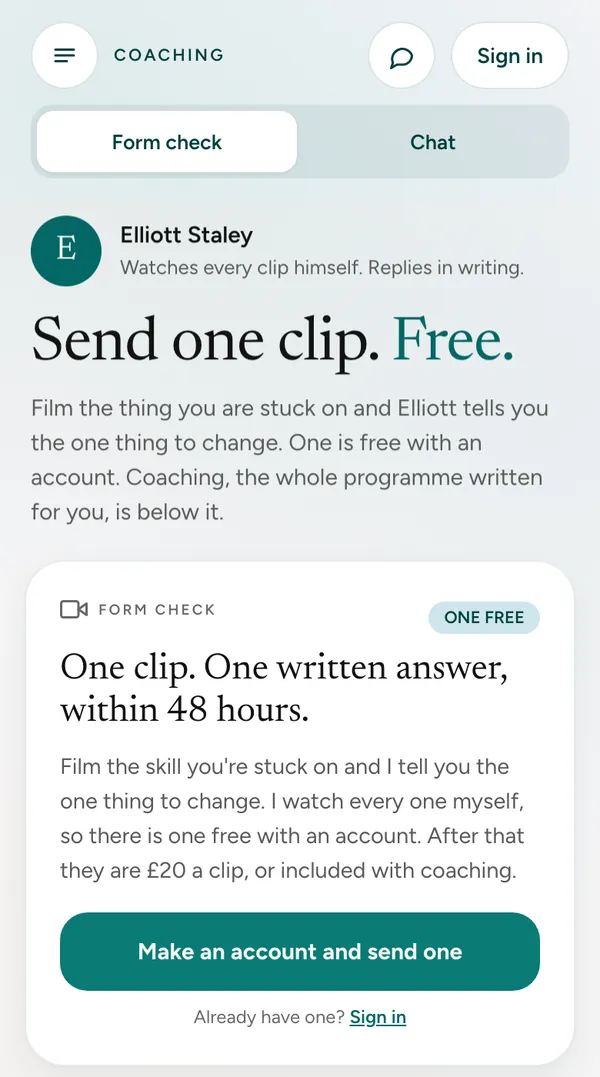
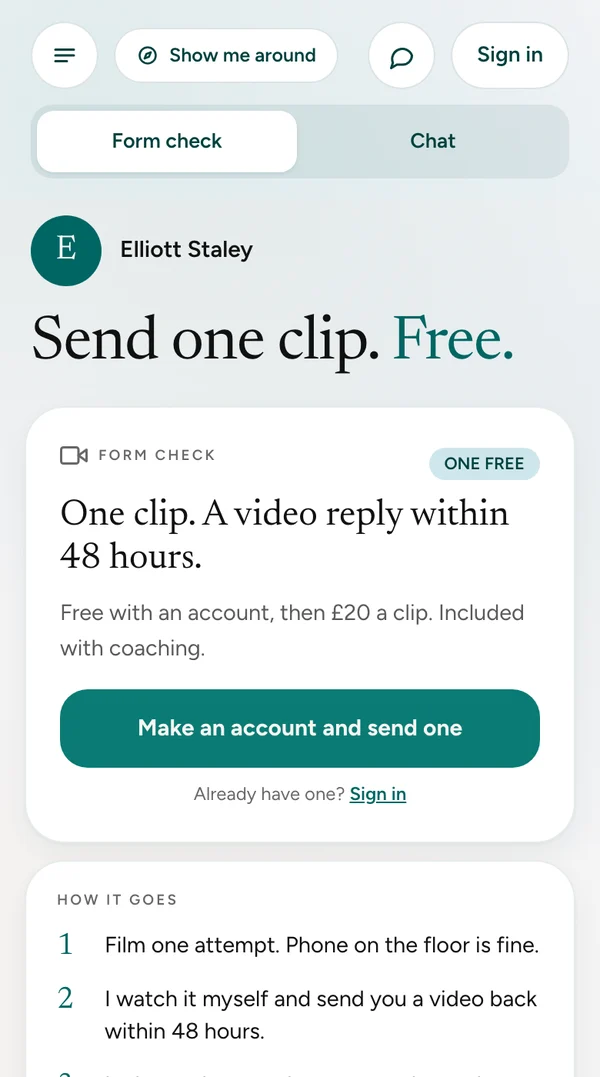
Form checks come back on video, not in writing
Elliott answers a form check with the review tool, on video. Everywhere
that promised a written answer now says so: the form check card ("One
clip. A video reply within 48 hours."), How it goes, the tour step, the
older plan list, the welcome message a form check buyer gets in their
chat, and the homepage's form check caption and picture description.
The homepage screenshot of the Form check screen is retaken with the new
words. The homepage's other "in writing" lines are about the coaching
questions, which are answered in writing, and stay.

diff --git a/lha-app.html b/lha-app.html
@@ -15134,7 +15134,7 @@ const PLANS=[
   {k:'check', n:'A form check',   price:'£20', per:'a clip',
    for:'You have the ladder and you want eyes on it.',
    gets:['One clip, answered within 48 hours',
-         'What to change, in writing, against your own footage']},
+         'A video reply on your own footage, showing what to change']},
   {k:'online', n:'Coaching',      price:'£120', per:'a month', best:true,
    for:'Your own programme, reviewed every fortnight.',
    gets:['A programme built for your body and your week',
@@ -15523,7 +15523,7 @@ function screenCoaching(){
             font:600 11px/1 var(--sans);color:var(--deep)">ONE FREE</span>
         </div>
         <div style="font:400 24px/1.15 var(--serif);margin-top:10px">
-          One clip. One written answer, within 48 hours.</div>
+          One clip. A video reply within 48 hours.</div>
         <div style="font:400 14.5px/1.55 var(--sans);color:var(--grey);margin-top:10px">
           Free with an account, then ${PRICE('check')} a clip. Included with coaching.</div>
         <button class="btn" style="width:100%;margin-top:16px"
@@ -15722,8 +15722,8 @@ function screenCoaching(){
         <div class="kick2">HOW IT GOES</div>
         <div style="margin-top:14px;display:flex;flex-direction:column;gap:13px">
           ${[['Film one attempt. Phone on the floor is fine.'],
-             ['I watch it myself and reply within 48 hours.'],
-             ['You get one change to make, and where you are on the ladder.']]
+             ['I watch it myself and send you a video back within 48 hours.'],
+             ['It shows the one change to make, and where you are on the ladder.']]
             .map(([t],i)=>`<div style="display:flex;gap:13px;align-items:flex-start">
               <span style="flex:none;font:400 20px/1.1 var(--serif);color:var(--forest);
                 width:18px">${i+1}</span>
@@ -16948,9 +16948,8 @@ const TOURS = {
       /* this said form checks come with the paid tier and the first week
          is free, which is neither the offer nor the price any more */
       {t:'formcheck', h:'A form check',
-       b:()=>'Film one attempt, send it, and I write back with the one thing to change. '
-         +'I watch every one myself, so there is one free with an account. '
-         +'After that they are '+PRICE('check')+' a clip, or included with coaching.'},
+       b:()=>'Film one attempt and I reply on video with the one thing to change. '
+         +'One is free with an account, then '+PRICE('check')+' a clip, or included with coaching.'},
       {t:'pricing', h:'If you want the whole thing',
        b:()=>(wide() ? 'The three side by side: what each one is, and what it costs. ' : 'Swipe the three across to see what each one is, and what it costs. ')
          +'Everything is month to month, and it only turns up once you have had your form check back.'},

diff --git a/index.html b/index.html
@@ -3404,8 +3404,8 @@ details.faq-item a { color: var(--green); font-weight: 600; text-decoration: und
         <figcaption><b>Answers on film</b>Short films on the questions people actually ask.</figcaption>
       </figure>
       <figure class="app2-phone">
-        <div class="app2-screen"><img src="assets/app/formcheck.webp" alt="Send one clip, free, and Elliott replies in writing" width="600" height="1077" loading="lazy" decoding="async"></div>
-        <figcaption><b>A free form check</b>Send me a clip and I tell you the one thing to change.</figcaption>
+        <div class="app2-screen"><img src="assets/app/formcheck.webp" alt="Send one clip, free, and Elliott replies on video" width="600" height="1077" loading="lazy" decoding="async"></div>
+        <figcaption><b>A free form check</b>Send me a clip and I show you, on video, the one thing to change.</figcaption>
       </figure>
     </div>
     <button type="button" class="app2-nav app2-next" aria-label="More screens" onclick="appRail(1)">&rarr;</button>
